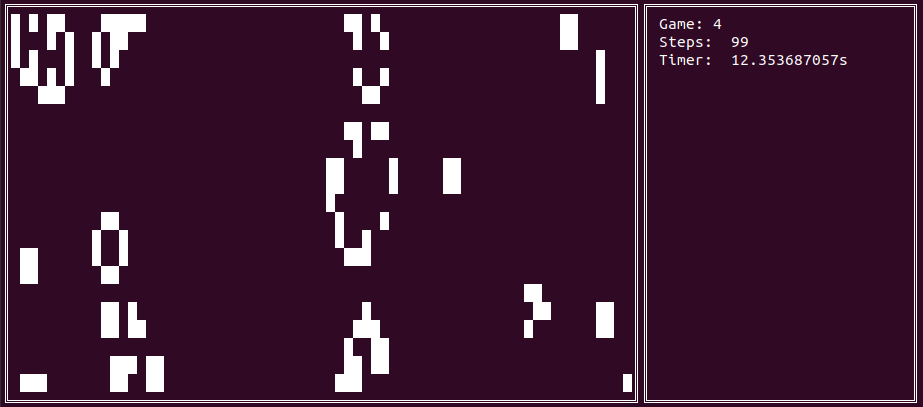
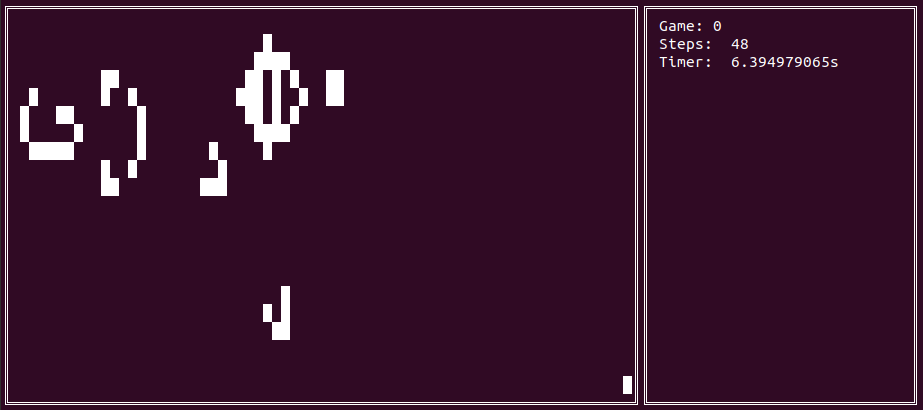
Use glider gun as zero state

diff --git a/cmd/lifegame/main.go b/cmd/lifegame/main.go
@@ -18,12 +18,17 @@ const (
 
 var (
 	gameInit = map[int][][]int{
-		/*0: { //boat
-			{2, 3},
-			{3, 2}, {3, 4},
-			{4, 3}, {4, 4},
-			//{4, 3},
-		},*/
+		0: { //glider
+			{1, 25},
+			{2, 23}, {2, 25},
+			{3, 13}, {3, 14}, {3, 21}, {3, 22}, {3, 35}, {3, 35}, {3, 36},
+			{4, 12}, {4, 16}, {4, 21}, {4, 22}, {4, 35}, {4, 36},
+			{5, 1}, {5, 2}, {5, 11}, {5, 17}, {5, 21}, {5, 22},
+			{6, 1}, {6, 2}, {6, 11}, {6, 15}, {6, 17}, {6, 18}, {6, 23}, {6, 25},
+			{7, 11}, {7, 17}, {7, 25},
+			{8, 12}, {8, 16},
+			{9, 13}, {9, 14},
+		},
 		1: {
 			{1, 3},
 			{2, 2}, {2, 3}, {2, 4},
